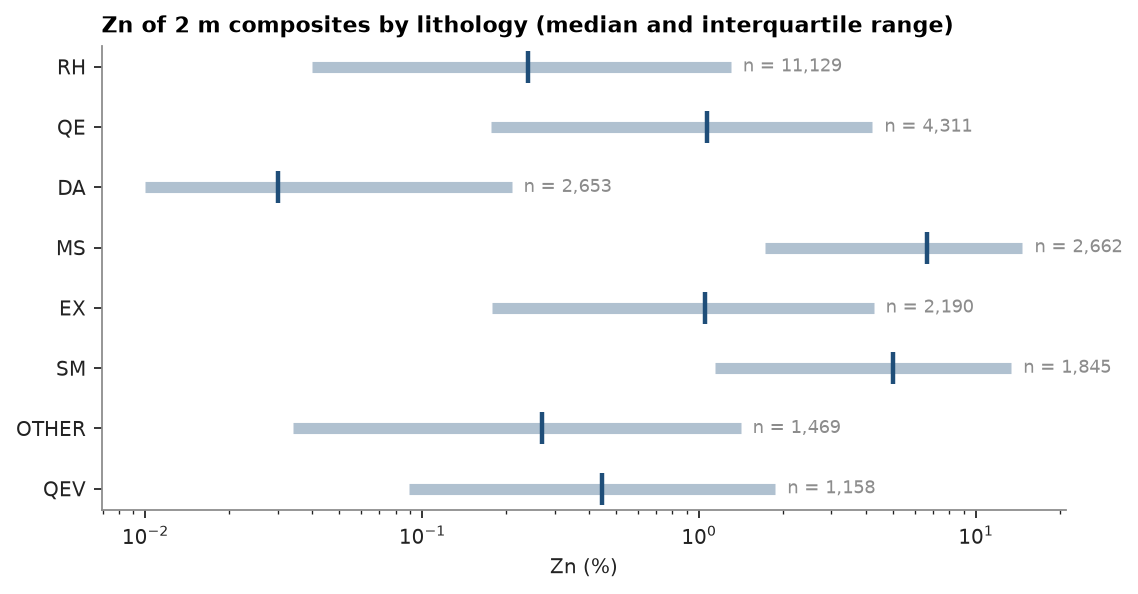
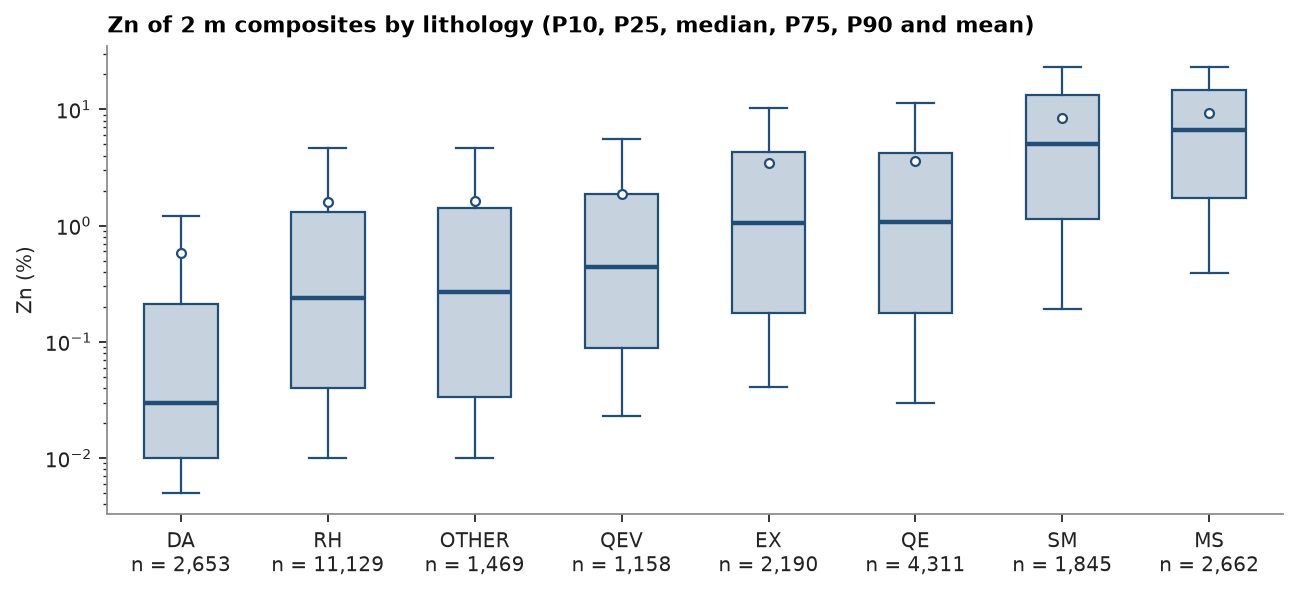
feat(plot): weighted Q-Q, cumulative distribution and box plots by domain

diff --git a/python/ceres/plot.py b/python/ceres/plot.py
@@ -5,9 +5,20 @@ Every function draws on `ax` when given, else on a new figure, and returns ``(fi
 
 import numpy as np
 
-from ceres._ceres import normal_ppf
+from ceres._ceres import describe, normal_ppf
 
-__all__ = ["histogram", "probability", "scatter", "section", "swath", "uncertain", "variogram"]
+__all__ = [
+    "boxplot",
+    "cdf",
+    "histogram",
+    "probability",
+    "qq",
+    "scatter",
+    "section",
+    "swath",
+    "uncertain",
+    "variogram",
+]
 
 
 def _axes(ax):
@@ -85,6 +96,127 @@ def probability(values, weights=None, log=False, ax=None, **kwargs):
     ax.set_ylabel("Cumulative probability (%)")
     if log:
         ax.set_xscale("log")
+    return fig, ax
+
+
+def cdf(values, weights=None, labels=None, log=False, ax=None, **kwargs):
+    """Cumulative distribution of one or several series overlaid, e.g. domains, or clustered and declustered.
+
+    Parameters
+    ----------
+    values : array_like or list of array_like
+        One series, or several; NaN is ignored.
+    weights : array_like or list, optional
+        Declustering weights: an array for one series; for several, one array or None each.
+    labels : list of str, optional
+        Legend entries.
+    log : bool
+        Log x axis.
+    **kwargs
+        Passed to every ``ax.step``.
+    """
+    fig, ax = _axes(ax)
+    if np.ndim(values[0]) == 0:
+        values, weights = [values], [weights]
+    weights = [None] * len(values) if weights is None else weights
+    labels = labels or [None] * len(values)
+    for v, w, label in zip(values, weights, labels, strict=True):
+        v, w = _finite(v, w)
+        order = np.argsort(v)
+        ax.step(v[order], np.cumsum(w[order]), where="post", label=label, **kwargs)
+    if any(labels):
+        ax.legend()
+    ax.set_ylim(0, 1)
+    ax.set_ylabel("Cumulative probability")
+    if log:
+        ax.set_xscale("log")
+    return fig, ax
+
+
+def qq(x, y, x_weights=None, y_weights=None, quantiles=None, log=False, ax=None, **kwargs):
+    """Quantiles of `y` against the same quantiles of `x`, with the 1:1 line on which equal distributions lie.
+
+    Parameters
+    ----------
+    x, y : array_like
+        Two samples, e.g. one domain and another, or composites and blocks; NaN is ignored.
+    x_weights, y_weights : array_like, optional
+        Declustering weights of each.
+    quantiles : array_like, optional
+        Probabilities; default 0.01 to 0.99 in steps of 0.01.
+    log : bool
+        Log axes.
+    **kwargs
+        Passed to ``ax.plot``.
+    """
+    fig, ax = _axes(ax)
+    p = np.linspace(0.01, 0.99, 99) if quantiles is None else quantiles
+    qx = describe(x, x_weights, quantiles=p)["quantiles"]
+    qy = describe(y, y_weights, quantiles=p)["quantiles"]
+    kwargs.setdefault("marker", ".")
+    kwargs.setdefault("linestyle", "none")
+    ax.plot(qx, qy, **kwargs)
+    lo, hi = min(qx.min(), qy.min()), max(qx.max(), qy.max())
+    ax.plot([lo, hi], [lo, hi], color="0.5", lw=0.8, ls="--", label="1:1")
+    if log:
+        ax.set_xscale("log")
+        ax.set_yscale("log")
+    return fig, ax
+
+
+def boxplot(values, categories, weights=None, sort=False, log=False, ax=None, **kwargs):
+    """One box per category: P25 to P75, median, P10 to P90 whiskers and the mean, all weighted.
+
+    Parameters
+    ----------
+    values : array_like
+        Values; NaN is ignored.
+    categories : array_like
+        Category (e.g. domain) of each value; each box is labelled with its count.
+    weights : array_like, optional
+        Declustering weights.
+    sort : bool
+        Order boxes by median, else by category.
+    log : bool
+        Log value axis.
+    **kwargs
+        Passed to ``ax.bxp``.
+    """
+    import matplotlib as mpl
+
+    fig, ax = _axes(ax)
+    values, categories = np.asarray(values, dtype=float), np.asarray(categories)
+    weights = None if weights is None else np.asarray(weights, dtype=float)
+    stats = []
+    for c in np.unique(categories[~np.isnan(values)]):
+        keep = categories == c
+        s = describe(values[keep], None if weights is None else weights[keep])
+        p10, q1, med, q3, p90 = s["quantiles"]
+        stats.append(
+            {
+                "label": f"{c}\nn = {s['n']:,}",
+                "whislo": p10,
+                "q1": q1,
+                "med": med,
+                "q3": q3,
+                "whishi": p90,
+                "mean": s["mean"],
+                "fliers": [],
+            }
+        )
+    if sort:
+        stats.sort(key=lambda s: s["med"])
+    color = mpl.rcParams["axes.prop_cycle"].by_key()["color"][0]
+    kwargs.setdefault("patch_artist", True)
+    kwargs.setdefault("showmeans", True)
+    kwargs.setdefault("boxprops", {"facecolor": mpl.colors.to_rgba(color, 0.25), "edgecolor": color})
+    kwargs.setdefault("medianprops", {"color": color, "lw": 2})
+    kwargs.setdefault("whiskerprops", {"color": color})
+    kwargs.setdefault("capprops", {"color": color})
+    kwargs.setdefault("meanprops", {"marker": "o", "ms": 4, "mfc": "white", "mec": color})
+    ax.bxp(stats, **kwargs)
+    if log:
+        ax.set_yscale("log")
     return fig, ax
 
 

diff --git a/examples/16-eda/example_16.py b/examples/16-eda/example_16.py
@@ -1,7 +1,7 @@
 """
 # 16. Exploratory data analysis
 
-Statistics per domain, top cuts, contacts, swaths, h-scatterplots and correlations on the 2 m composites of the
+Statistics and distributions per domain, top cuts, contacts, swaths, h-scatterplots and correlations on the 2 m composites of the
 drillhole dataset. Every function skips missing values, so raw columns go in as they are.
 """
 
@@ -52,13 +52,46 @@ print(f"{len(composites)} composites")
 # of the number of composites in its cell; `describe` gives weighted moments and quantiles.
 
 # %%
+domains = ["MS", "SM", "QE", "EX", "RH"]
+weights = np.zeros(len(zn))
 print(f"{'LITH':<6}{'n':>7}{'mean':>8}{'declust.':>10}{'CV':>6}{'P50':>7}{'P90':>7}")
-for name in ["MS", "SM", "QE", "EX", "RH"]:
+for name in domains:
     keep = (lith == name) & ~np.isnan(zn)
-    w = cs.cell_declustering(xyz[keep], zn[keep], cell_size=50.0).weights
+    weights[keep] = w = cs.cell_declustering(xyz[keep], zn[keep], cell_size=50.0).weights
     naive, s = cs.describe(zn[keep]), cs.describe(zn[keep], w, quantiles=[0.5, 0.9])
     p50, p90 = s["quantiles"]
     print(f"{name:<6}{s['n']:>7}{naive['mean']:>8.2f}{s['mean']:>10.2f}{s['cv']:>6.2f}{p50:>7.2f}{p90:>7.2f}")
+
+# %% [markdown]
+# The same declustered quantiles as box plots, sorted by median: the box spans P25 to P75, the whiskers P10 to P90,
+# the dot is the declustered mean.
+
+# %%
+five = np.isin(lith, domains)
+fig, ax = plt.subplots(figsize=(7, 3.4), layout="constrained")
+cs.plot.boxplot(zn[five], lith[five], weights=weights[five], sort=True, log=True, ax=ax)
+ax.set(title="Declustered Zn by lithology", ylabel="Zn (%)")
+save(fig, "boxplot")
+
+# %% [markdown]
+# Cumulative distributions show that declustering shifts MS only slightly towards low grades. The Q-Q plot compares
+# MS with SM quantile by quantile: above about 1 % Zn they follow the 1:1 line, below it MS is richer, so the two
+# domains differ in their low tail rather than in their high grades.
+
+# %%
+ms, sm = lith == "MS", lith == "SM"
+fig, (a, b) = plt.subplots(1, 2, figsize=(9, 3.6), layout="constrained")
+cs.plot.cdf(
+    [zn[ms], zn[ms], zn[sm]],
+    weights=[None, weights[ms], weights[sm]],
+    labels=["MS naive", "MS declustered", "SM declustered"],
+    log=True,
+    ax=a,
+)
+a.set(title="Cumulative distribution of Zn", xlabel="Zn (%)")
+cs.plot.qq(zn[sm], zn[ms], weights[sm], weights[ms], log=True, ax=b)
+b.set(title="Q-Q, declustered: P1 to P99", xlabel="SM Zn (%)", ylabel="MS Zn (%)")
+save(fig, "distributions")
 
 # %% [markdown]
 # ## Top cuts

diff --git a/python/tests/test_plot.py b/python/tests/test_plot.py
@@ -25,6 +25,46 @@ def test_histogram_and_probability():
     assert np.corrcoef(x, y)[0, 1] > 0.98
 
 
+def test_cdf_is_monotone_to_one_and_follows_weights():
+    v = rng.lognormal(0, 1, 300)
+    w = np.where(v > np.median(v), 3.0, 1.0)
+    _, ax = cs.plot.cdf([v, v], weights=[None, w], labels=["naive", "declustered"], log=True)
+    (x, naive), (_, weighted) = (line.get_data() for line in ax.lines)
+    assert np.all(np.diff(x) >= 0) and np.all(np.diff(naive) >= 0)
+    assert naive[-1] == pytest.approx(1.0) and weighted[-1] == pytest.approx(1.0)
+    assert np.all(weighted <= naive + 1e-12) and weighted[150] < naive[150]
+    _, ax = cs.plot.cdf(np.append(v, np.nan), weights=np.append(w, 1.0))
+    assert len(ax.lines) == 1
+
+
+def test_qq_of_a_sample_against_itself_is_on_the_diagonal():
+    v = rng.lognormal(0, 1, 300)
+    _, ax = cs.plot.qq(v, v)
+    x, y = ax.lines[0].get_data()
+    np.testing.assert_allclose(x, y)
+    w = np.where(v > np.median(v), 3.0, 1.0)
+    _, ax = cs.plot.qq(v, v, y_weights=w, quantiles=[0.25, 0.5, 0.75])
+    x, y = ax.lines[0].get_data()
+    np.testing.assert_allclose(y, cs.describe(v, w, quantiles=[0.25, 0.5, 0.75])["quantiles"])
+    assert np.all(y > x)
+
+
+def test_boxplot_quartiles_are_describe_quantiles():
+    v = rng.lognormal(0, 1, 300)
+    domain = np.where(np.arange(300) < 100, "b", "a")
+    w = rng.uniform(0.5, 2.0, 300)
+    _, ax = cs.plot.boxplot(v, domain, weights=w, sort=True)
+    stats = [cs.describe(v[domain == d], w[domain == d]) for d in ("a", "b")]
+    order = np.argsort([s["quantiles"][2] for s in stats])
+    for box, i in zip(ax.patches, order, strict=True):
+        y = box.get_path().vertices[:, 1]
+        assert (y.min(), y.max()) == pytest.approx(tuple(stats[i]["quantiles"][[1, 3]]))
+    labels = [t.get_text() for t in ax.get_xticklabels()]
+    assert labels[order.tolist().index(0)] == "a\nn = 200"
+    _, ax = cs.plot.boxplot(v, domain)
+    assert ax.patches[0].get_path().vertices[:, 1].max() != pytest.approx(stats[0]["quantiles"][3])
+
+
 def test_variogram_with_anisotropic_model():
     xy = rng.uniform(0, 100, (200, 2))
     exp = cs.experimental_variogram(xy, rng.normal(size=200), 10.0, 60.0, azimuth=30)

diff --git a/examples/06-drillholes/example_06.py b/examples/06-drillholes/example_06.py
@@ -164,18 +164,10 @@ save(fig, "compositing")
 # %%
 lith = np.array(composites.attributes["LITH"])
 names, counts = np.unique(lith[lith != ""], return_counts=True)
-top = names[np.argsort(counts)[::-1][:8]]
-fig, ax = plt.subplots(figsize=(7, 3.6), layout="constrained")
-for i, name in enumerate(top):
-    values = zn[(lith == name) & ~np.isnan(zn)]
-    q1, med, q3 = np.percentile(values, [25, 50, 75])
-    ax.plot([q1, q3], [i, i], color=ACCENT, lw=5, alpha=0.35, solid_capstyle="butt")
-    ax.plot(med, i, "|", color=ACCENT, ms=14, mew=2)
-    ax.text(q3, i, f"  n = {len(values):,}", va="center", color=GREY, fontsize=8)
-ax.set_yticks(range(len(top)), top)
-ax.invert_yaxis()
-ax.set_xscale("log")
-ax.set(title="Zn of 2 m composites by lithology (median and interquartile range)", xlabel="Zn (%)")
+top = np.isin(lith, names[np.argsort(counts)[::-1][:8]])
+fig, ax = plt.subplots(figsize=(8, 3.6), layout="constrained")
+cs.plot.boxplot(zn[top], lith[top], sort=True, log=True, ax=ax)
+ax.set(title="Zn of 2 m composites by lithology (P10, P25, median, P75, P90 and mean)", ylabel="Zn (%)")
 save(fig, "domains")
 
 

diff --git a/examples/16-eda/README.md b/examples/16-eda/README.md
@@ -1,6 +1,6 @@
 # 16. Exploratory data analysis
 
-Statistics per domain, top cuts, contacts, swaths, h-scatterplots and correlations on the 2 m composites of the
+Statistics and distributions per domain, top cuts, contacts, swaths, h-scatterplots and correlations on the 2 m composites of the
 drillhole dataset. Every function skips missing values, so raw columns go in as they are.
 
 <details><summary>Python</summary>
@@ -57,10 +57,12 @@ of the number of composites in its cell; `describe` gives weighted moments and q
 <details><summary>Python</summary>
 
 ```python
+domains = ["MS", "SM", "QE", "EX", "RH"]
+weights = np.zeros(len(zn))
 print(f"{'LITH':<6}{'n':>7}{'mean':>8}{'declust.':>10}{'CV':>6}{'P50':>7}{'P90':>7}")
-for name in ["MS", "SM", "QE", "EX", "RH"]:
+for name in domains:
     keep = (lith == name) & ~np.isnan(zn)
-    w = cs.cell_declustering(xyz[keep], zn[keep], cell_size=50.0).weights
+    weights[keep] = w = cs.cell_declustering(xyz[keep], zn[keep], cell_size=50.0).weights
     naive, s = cs.describe(zn[keep]), cs.describe(zn[keep], w, quantiles=[0.5, 0.9])
     p50, p90 = s["quantiles"]
     print(f"{name:<6}{s['n']:>7}{naive['mean']:>8.2f}{s['mean']:>10.2f}{s['cv']:>6.2f}{p50:>7.2f}{p90:>7.2f}")
@@ -76,6 +78,49 @@ QE       4311    3.58      3.44  1.60   0.95  10.90
 EX       2190    3.45      3.75  1.54   1.16  11.85
 RH      11129    1.60      1.66  2.24   0.21   4.87
 ```
+
+The same declustered quantiles as box plots, sorted by median: the box spans P25 to P75, the whiskers P10 to P90,
+the dot is the declustered mean.
+
+<details><summary>Python</summary>
+
+```python
+five = np.isin(lith, domains)
+fig, ax = plt.subplots(figsize=(7, 3.4), layout="constrained")
+cs.plot.boxplot(zn[five], lith[five], weights=weights[five], sort=True, log=True, ax=ax)
+ax.set(title="Declustered Zn by lithology", ylabel="Zn (%)")
+save(fig, "boxplot")
+```
+
+</details>
+
+![boxplot](boxplot.png)
+
+Cumulative distributions show that declustering shifts MS only slightly towards low grades. The Q-Q plot compares
+MS with SM quantile by quantile: above about 1 % Zn they follow the 1:1 line, below it MS is richer, so the two
+domains differ in their low tail rather than in their high grades.
+
+<details><summary>Python</summary>
+
+```python
+ms, sm = lith == "MS", lith == "SM"
+fig, (a, b) = plt.subplots(1, 2, figsize=(9, 3.6), layout="constrained")
+cs.plot.cdf(
+    [zn[ms], zn[ms], zn[sm]],
+    weights=[None, weights[ms], weights[sm]],
+    labels=["MS naive", "MS declustered", "SM declustered"],
+    log=True,
+    ax=a,
+)
+a.set(title="Cumulative distribution of Zn", xlabel="Zn (%)")
+cs.plot.qq(zn[sm], zn[ms], weights[sm], weights[ms], log=True, ax=b)
+b.set(title="Q-Q, declustered: P1 to P99", xlabel="SM Zn (%)", ylabel="MS Zn (%)")
+save(fig, "distributions")
+```
+
+</details>
+
+![distributions](distributions.png)
 
 ## Top cuts
 

diff --git a/examples/README.md b/examples/README.md
@@ -20,7 +20,7 @@ Walker Lake has an exhaustive grid, so every result is checked against the truth
 | 13 | [Simulation methods](13-simulation-methods/README.md) | Walker Lake, Jura | `TurningBands`, `SIS`, `Plurigaussian` |
 | 14 | [Storing containers in Parquet](14-parquet/README.md) | Walker Lake | `write_parquet`, `read_parquet`, polars |
 | 15 | [Implicit modelling](15-implicit/README.md) | Drillholes | `ImplicitModel` RBF and GP, `isosurface(closed=True)` |
-| 16 | [Exploratory data analysis](16-eda/README.md) | Drillholes | `describe`, `capping`, `contact`, `swath`, `h_scatter`, `correlation` |
+| 16 | [Exploratory data analysis](16-eda/README.md) | Drillholes | `describe`, `plot.boxplot`, `plot.cdf`, `plot.qq`, `capping`, `contact`, `swath`, `h_scatter`, `correlation` |
 | 17 | [Multivariate transforms](17-multivariate/README.md) | Geomet porphyry 1 | `PCA`, `MAF`, `StepwiseConditional`, `PPMT` |
 | 18 | [Validation and classification](18-validation/README.md) | Walker Lake | `predict(diagnostics=True)`, `cross_validate(folds=)`, `global_bias`, `classify`, `smooth_classes` |
 | 19 | [Geological modelling](19-geological-model/README.md) | Drillholes, synthetic fold | `Drillholes.at` contacts, `ImplicitModel` kriging/RBF/GP, planes, lineations, gradients, GP variance |

diff --git a/examples/06-drillholes/README.md b/examples/06-drillholes/README.md
@@ -195,18 +195,10 @@ Zn by lithology:
 ```python
 lith = np.array(composites.attributes["LITH"])
 names, counts = np.unique(lith[lith != ""], return_counts=True)
-top = names[np.argsort(counts)[::-1][:8]]
-fig, ax = plt.subplots(figsize=(7, 3.6), layout="constrained")
-for i, name in enumerate(top):
-    values = zn[(lith == name) & ~np.isnan(zn)]
-    q1, med, q3 = np.percentile(values, [25, 50, 75])
-    ax.plot([q1, q3], [i, i], color=ACCENT, lw=5, alpha=0.35, solid_capstyle="butt")
-    ax.plot(med, i, "|", color=ACCENT, ms=14, mew=2)
-    ax.text(q3, i, f"  n = {len(values):,}", va="center", color=GREY, fontsize=8)
-ax.set_yticks(range(len(top)), top)
-ax.invert_yaxis()
-ax.set_xscale("log")
-ax.set(title="Zn of 2 m composites by lithology (median and interquartile range)", xlabel="Zn (%)")
+top = np.isin(lith, names[np.argsort(counts)[::-1][:8]])
+fig, ax = plt.subplots(figsize=(8, 3.6), layout="constrained")
+cs.plot.boxplot(zn[top], lith[top], sort=True, log=True, ax=ax)
+ax.set(title="Zn of 2 m composites by lithology (P10, P25, median, P75, P90 and mean)", ylabel="Zn (%)")
 save(fig, "domains")
 ```
 
